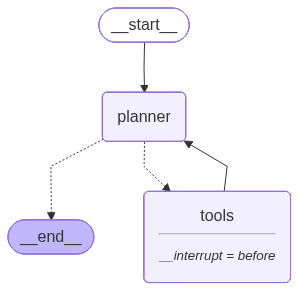
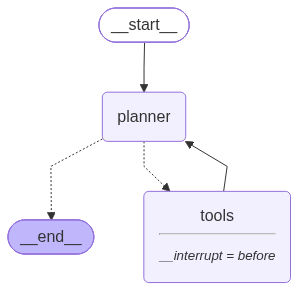
FastAPI chatrequest

diff --git a/api/routes.py b/api/routes.py
@@ -1,0 +1,31 @@
+from fastapi import FastAPI, HTTPException
+from pydantic import BaseModel
+from agent.graph import build_graph
+
+app = FastAPI()
+class ChatRequest(BaseModel):
+    message: str
+    thread_id: str
+
+class ApproveRequest(BaseModel):
+    thread_id: str
+
+class RejectRequest(BaseModel):
+    thread_id: str
+@app.post("/chat")
+async def chat(request: ChatRequest):
+    graph = await build_graph()
+    input_state = {
+        "messages": [{"role": "user", "content": request.message}],
+        "portfolio_data": {},
+        "budget_context": "",
+        "awaiting_approval": False
+    }
+    config = {"configurable": {"thread_id": request.thread_id}}
+    result = await graph.ainvoke(input_state, config)
+    last_message = result["messages"][-1]
+    if not hasattr(last_message, 'tool_calls') or not last_message.tool_calls:
+        return {"status": "complete", "response": last_message.content}
+    else:
+        return {"status": "pending", "action": last_message.tool_calls[0]}
+    

diff --git a/main.py b/main.py
@@ -4,7 +4,7 @@ from agent.graph import build_graph
 
 async def main():
     input_state={
-        "messages":[{"role":"user","content":"How much did I spend on food last month?"}],
+        "messages":[{"role":"user","content":"place an order for 1 AAPL stock and give summary as well"}],
         "portfolio_data": {},
         "budget_context": "",
         "awaiting_approval": False}
